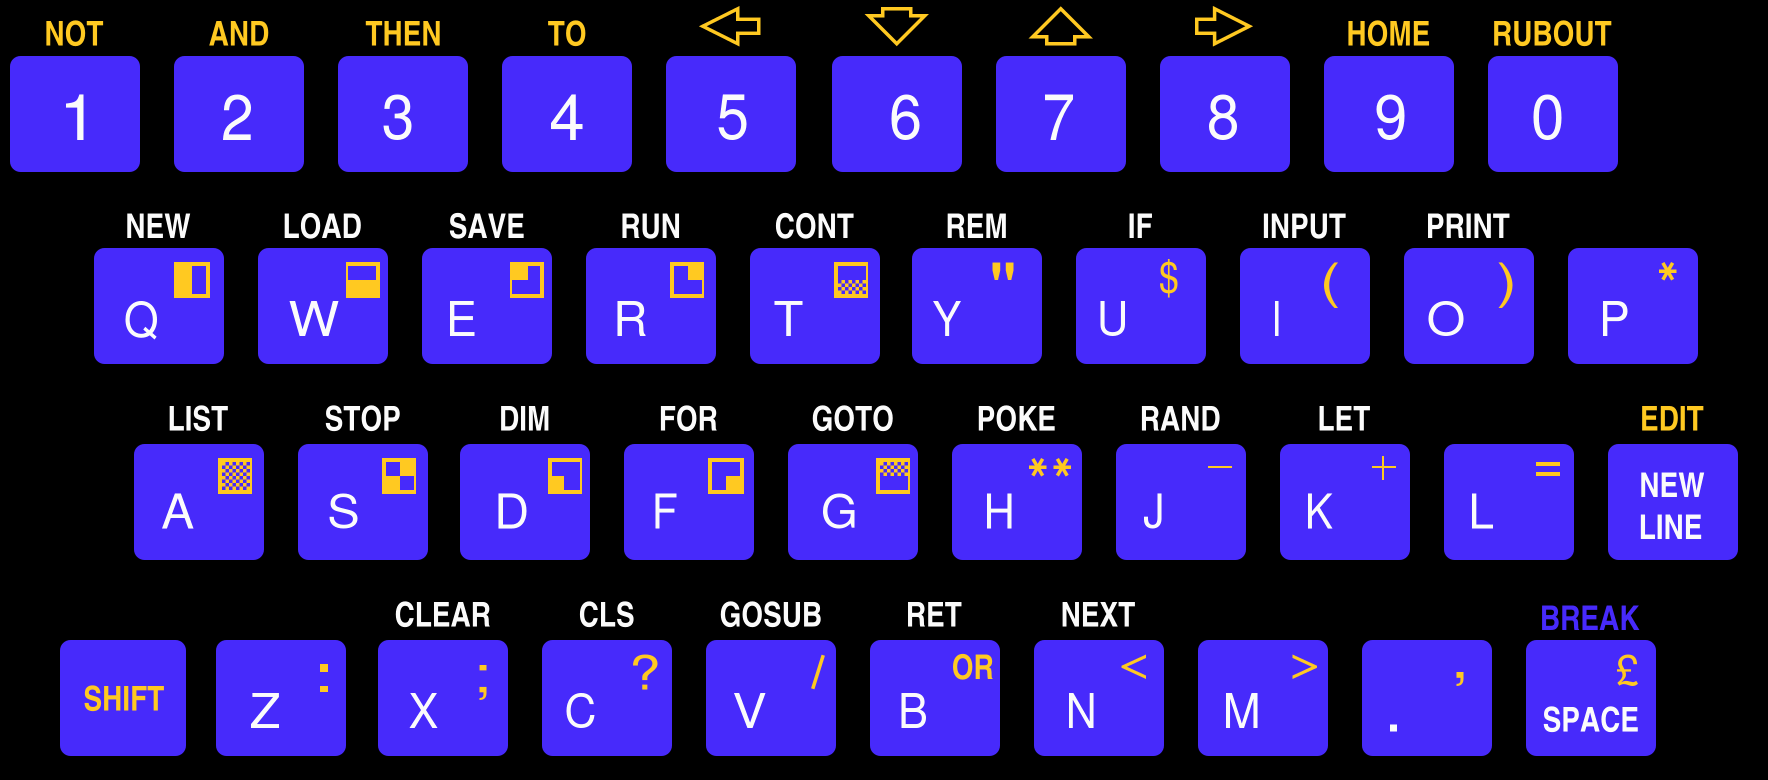
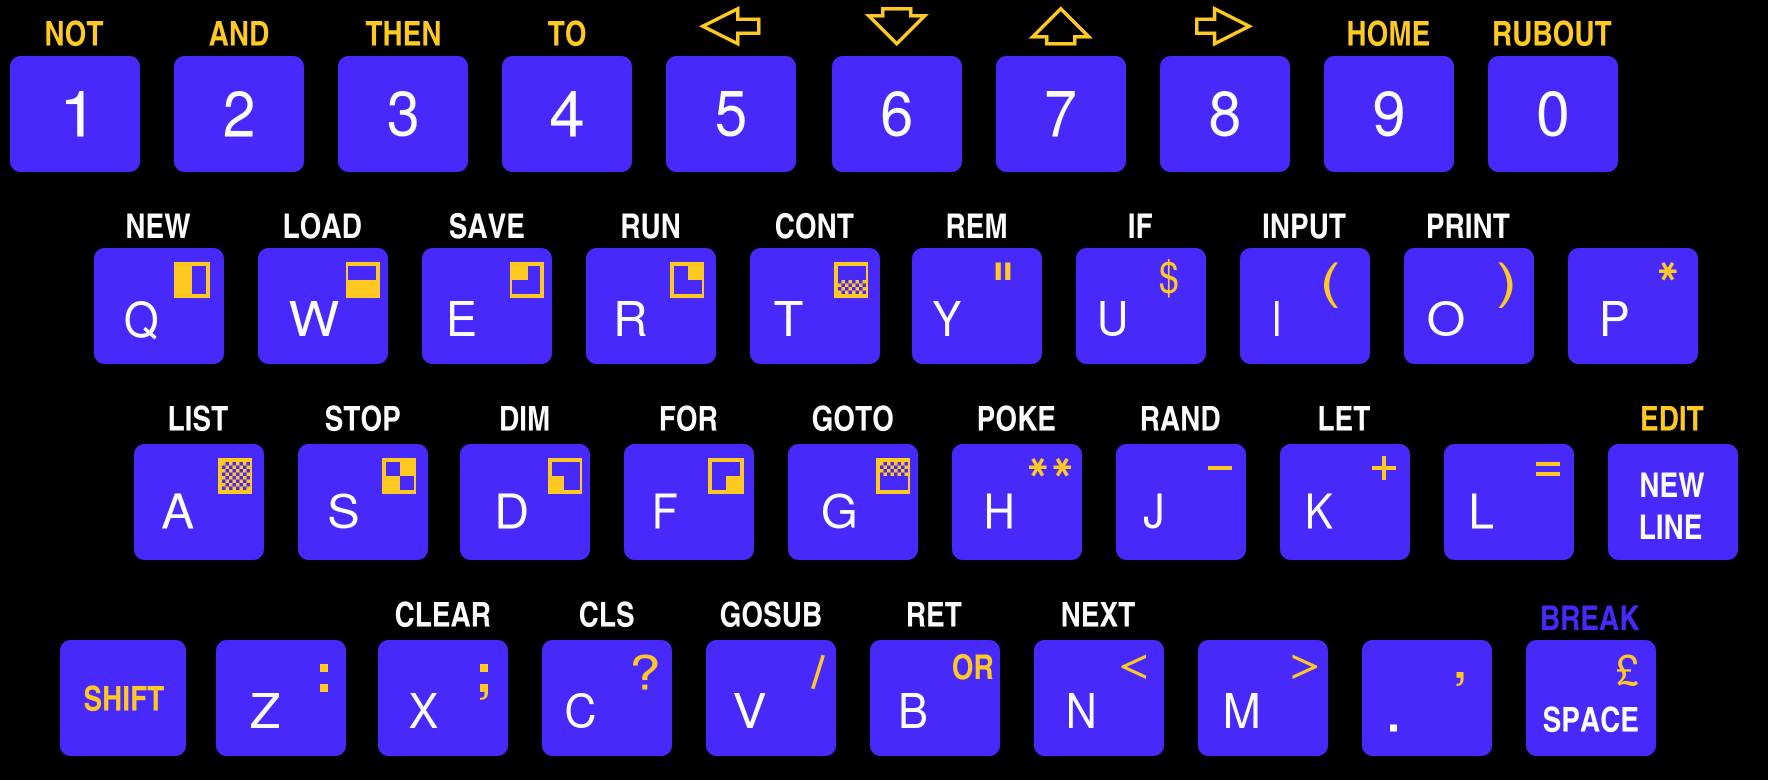
Keyboard pictures: the ZX80's digits and signs
Viktor's choices: the digits in the middle of their keys; the lines of
- + = as thick as each other (they were 1 or 2 pixels as their rows
fell), + of two bars crossing in their middles; the two dots of : of
one size; ; such a dot and a comma of Heros, its head as large, its
tail as long as the head is high; " as on the Spectrum (Heros Cn Bold,
5 pixels high). The ZXpand picture too. kbdraw.comma(): the comma of a
font with its tail made shorter or longer.

Claude-Session: https://claude.ai/code/session_01NM19GvsbPzKCYdva7s3UiR

diff --git a/Source/KBPics/svg/zx80.py b/Source/KBPics/svg/zx80.py
@@ -5,7 +5,7 @@
 # ZX80 are found in it by their pixels; what is not found is not drawn.
 import os
 import sys
-from kbdraw import Picture, hexcol, arrow_points
+from kbdraw import Picture, hexcol, arrow_points, font, comma
 
 HERE = os.path.dirname(os.path.abspath(__file__))
 KEY, YELLOW, WHITE = (72, 42, 254), (255, 201, 33), (255, 255, 255)
@@ -67,25 +67,95 @@ def draw(name, own=None):
             texts[v] = t
     texts.update(own or {})
     big = set(V(i) for i in BIG) - set([None])
+    digits = set(V(i) for i in range(10, 20)) - set([None])
 
     # The words (white, yellow and blue): all of one size, as high as in
     # the original and on the ZX81 (7 pixels), in the font's own spacing;
     # those above the keys in the middle of their keys. The letters and the
     # signs thin, as in the original
     for ids, t in texts.items():
-        if ids in big:
+        if ids in digits:
+            # the digits in the middle of their keys (Viktor's choice), of
+            # their sizes
+            b = p.box(ids)
+            X, Y, W, H = p.moved(b)
+            k = p.newkeys[p.key_of(b)]
+            p.fit(t, (k[0] + k[2] / 2) * S - W / 2, (k[1] + k[3] / 2) * S - H / 2, W, H, b['c'],
+                  fonts=('heros',))
+        elif ids in big:
             p.text(ids, t, fonts=('heros',))
+        elif t == ';':
+            continue                    # with : (below)
+        elif t == '"':
+            # as on the Spectrum (Viktor's choice): Heros Cn Bold, 5 pixels
+            # high, not stretched; in the middle of its box, at its top
+            b = p.box(ids)
+            X, Y, W, H = p.moved(b)
+            d, (x0, y0, x1, y1) = font('cnb').outline('"')
+            sc = 5 * S / (y1 - y0)
+            p.items.append('<path fill="%s" transform="matrix(%.5f 0 0 %.5f %.3f %.3f)" d="%s"/>'
+                           % (hexcol(b['c']), sc, -sc, X + W / 2 - sc * (x0 + x1) / 2, Y + sc * y1, d))
         elif len(t) > 1 and any(c.isalpha() for c in t):
             p.word(ids, t, 'cnb', 7, over=True)
         else:
             p.text(ids, t, fonts=('heros', 'cn'))
 
-    # Block graphics and the straight signs (- + = :): made of squares; the
-    # grey ones dotted, as in the original
-    for i in (29, 30, 31, 32, 59, 60, 61, 64, 65, 66, 84, 94):
+    # Block graphics: made of squares; the grey ones dotted, as in the
+    # original
+    for i in (29, 30, 31, 32, 59, 60, 61):
         p.pixels(V(i))
     for i in (33, 58, 62):
         p.dotted(V(i))
+
+    # The straight signs (Viktor's choice): the lines of - + = as thick as
+    # each other (T, on whole pixels; they were 1 or 2 pixels as their
+    # rows fell), + of two bars as long, crossing in their middles; the two
+    # dots of : of one size
+    T = max(1, round(S))
+
+    def rect(l, t, w, h):
+        p.items.append('<rect x="%d" y="%d" width="%d" height="%d" fill="%s"/>' % (l, t, w, h, hexcol(YELLOW)))
+
+    def bars(i):
+        """The box of a sign, the length of its lines (whole pixels, as
+        many at both sides of a line across it) and their left edge"""
+        b = p.box(V(i))
+        X, Y, W, H = p.moved(b)
+        L = round(W)
+        L -= (L - T) % 2
+        return X, Y, W, H, L, round(X + W / 2 - L / 2)
+
+    X, Y, W, H, L, l = bars(65)                 # - on J
+    rect(l, round(Y + H / 2 - T / 2), L, T)
+    X, Y, W, H, L, l = bars(64)                 # + on K
+    t = round(Y + H / 2 - L / 2)
+    rect(l, t + (L - T) // 2, L, T)
+    rect(l + (L - T) // 2, t, T, L)
+    X, Y, W, H, L, l = bars(66)                 # = on L: its lines where they were
+    t = round(Y + S / 2 - T / 2)
+    rect(l, t, L, T)
+    rect(l, t + round(3 * S), L, T)
+    # : on Z: two squares, as wide as the dots were (2 pixels), as far
+    # apart (6 pixels)
+    b = p.box(V(84))
+    p.box(V(94))
+    X, Y, W, H = p.moved(b)
+    D = round(W)
+    l, t = round(X + W / 2 - D / 2), round(Y + H / 2 - D / 2)
+    rect(l, t, D, D)
+    rect(l, t + round(6 * S), D, D)
+    # ; on X (Viktor's choice): a dot as those of :, and under it, as far
+    # as the dots of : are, a comma of Heros, its head as large, its tail as
+    # long as the head is high (as in the original; that of the font is
+    # longer)
+    b = p.box(V(85, 95))
+    X, Y, W, H = p.moved(b)
+    l, t = round(X + S - D / 2), round(Y + S - D / 2)
+    rect(l, t, D, D)
+    d, (x0, y0, x1, y1) = comma('heros', 1.0)
+    sc = D / (x1 - x0)
+    p.items.append('<path fill="%s" transform="matrix(%.5f 0 0 %.5f %.3f %.3f)" d="%s"/>'
+                   % (hexcol(YELLOW), sc, -sc, l - sc * x0, t + round(6 * S) + sc * y1, d))
 
     # / on V: a thin line
     b = p.box(V(87))

diff --git a/Source/KBPics/svg/kbdraw.py b/Source/KBPics/svg/kbdraw.py
@@ -322,6 +322,36 @@ class Picture:
 
 
 # ---- shared helpers ---------------------------------------------------------
+def comma(name='heros', tail=1.0):
+    """The comma of a font, its tail (the part under the base line) made
+    shorter or longer: tail times as long as the head is high; as
+    Font.outline() gives it"""
+    import re
+    d, (x0, y0, x1, y1) = font(name).outline(',')
+    k = tail * y1 / -y0
+    args = {'M': 2, 'L': 2, 'H': 1, 'V': 1, 'C': 6, 'Q': 4, 'Z': 0}
+    out, cmd, nums = [], None, []
+
+    def flush():
+        if cmd is None:
+            return
+        vals = []
+        for i, v in enumerate(nums):
+            is_y = cmd == 'V' or (cmd not in 'HV' and i % 2 == 1)
+            vals.append(v * k if is_y and v < 0 else v)
+        out.append(cmd + ' '.join('%g' % v for v in vals))
+    for tok in re.findall(r'[A-Za-z]|-?\d+(?:\.\d+)?', d):
+        if tok.isalpha():
+            flush()
+            cmd, nums = tok.upper(), []
+            if tok.upper() not in args:
+                raise ValueError('comma(): path command %s' % tok)
+        else:
+            nums.append(float(tok))
+    flush()
+    return ''.join(out), (x0, y0 * k, x1, y1)
+
+
 def arrow_points(X, Y, W, H, direction, sw, head=0.42, s0=0.28, s1=0.72):
     """An outline arrow in a box: the points of its centre line"""
     pts = [(0, 0.5), (head, 0.0), (head, s0), (1, s0), (1, s1), (head, s1), (head, 1.0)]

diff --git a/CHANGELOG-fork.md b/CHANGELOG-fork.md
@@ -39,12 +39,14 @@ itself are in `Release Files/Release history.txt`.
   on the Spectrum. On the ZX81 the keys are in even rows, and the grey
   block graphics keep their dots, of one size at every scale; on the
   ZXpand pictures LPRINT and LLIST stay small under ZXPAND and CONFIG. On
-  the ZX80 the words above the keys are in the middle of them, and the
-  letters stay thin. The +2 and +3 keep their keys as in the original and
-  their slanted letters. The Timex pictures keep their frames and keys
-  pixel for pixel (sharp at every size), their texts are drawn again. The
-  R470 keeps its blue L-shaped FUNC and ENTER keys and its cyan GRAPHICS
-  key. The other keyboards keep their pictures.
+  the ZX80 the words above the keys are in the middle of them, and so are
+  the digits on their keys, and the letters stay thin; the lines of − + =
+  are as thick as each other, the two dots of : are of one size, ; is such
+  a dot and a comma, and " is as on the Spectrum. The +2 and +3 keep their
+  keys as in the original and their slanted letters. The Timex pictures
+  keep their frames and keys pixel for pixel (sharp at every size), their
+  texts are drawn again. The R470 keeps its blue L-shaped FUNC and ENTER
+  keys and its cyan GRAPHICS key. The other keyboards keep their pictures.
 - *Help > Keyboard Map* sizes: **75%, 100%, 125%, 150%, 175% and 200%**;
   100%, the first, is 884 × 390, 1.75 times the original pictures (505 ×
   223; the sizes were 1x–2x). The size is shown in the title of the window

diff --git a/CHANGELOG-fork.hu.md b/CHANGELOG-fork.hu.md
@@ -41,9 +41,11 @@ készült. Magának az EightyOne-nak a változásai a
   billentyűi egyenletes sorokban állnak, a szürke blokkgrafikák pöttyösek
   maradtak, minden méretben egyforma pöttyökkel; a ZXpand-os képeken az
   LPRINT és az LLIST kicsi maradt a ZXPAND és a CONFIG alatt. A ZX80 képén
-  a billentyűk feletti feliratok a billentyűk közepén állnak, a betűk
-  vékonyak maradtak. A +2 és a +3 billentyűi olyanok, mint az eredetin, a
-  betűk dőltek maradtak. A Timex képek keretei és billentyűi pixelre az
+  a billentyűk feletti feliratok és a számok a billentyűk közepén állnak,
+  a betűk vékonyak maradtak; a − + = vonalai egyforma vastagok, a : két
+  pontja egyforma, a ; egy ilyen pont és egy vessző, a " olyan, mint a
+  Spectrumon. A +2 és a +3 billentyűi olyanok, mint az eredetin, a betűk
+  dőltek maradtak. A Timex képek keretei és billentyűi pixelre az
   eredetiek (minden méretben élesek), a feliratok újra vannak rajzolva. Az
   R470 kék, L alakú FUNC és ENTER billentyűje és türkiz GRAPHICS
   billentyűje megmaradt. A többi billentyűzet képe nem változott.
